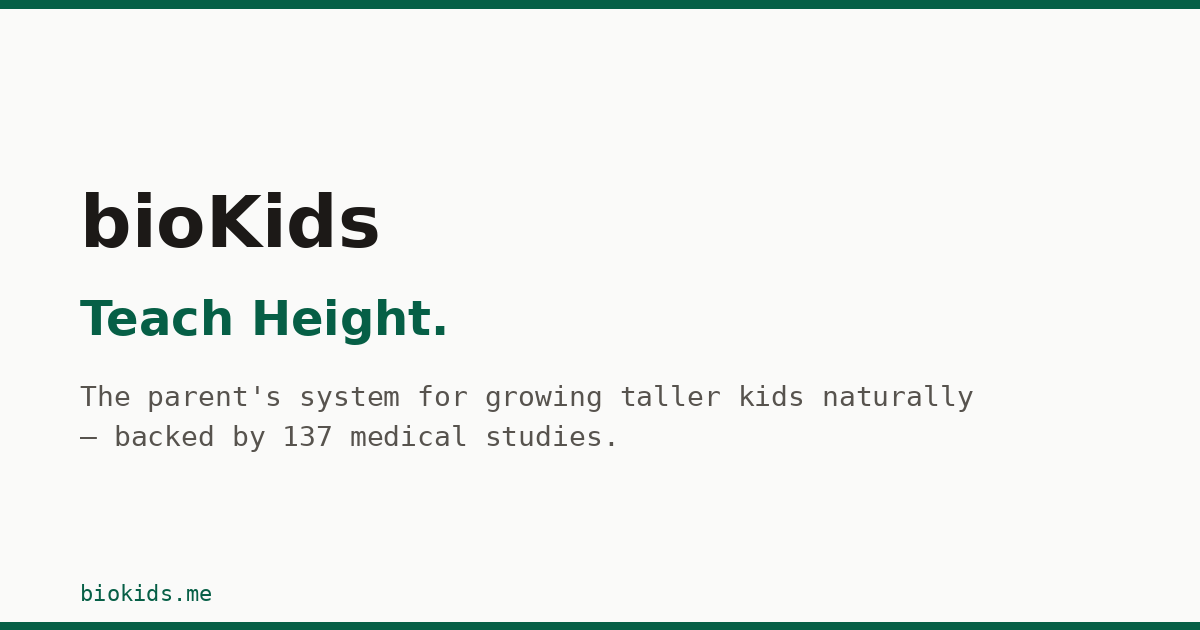
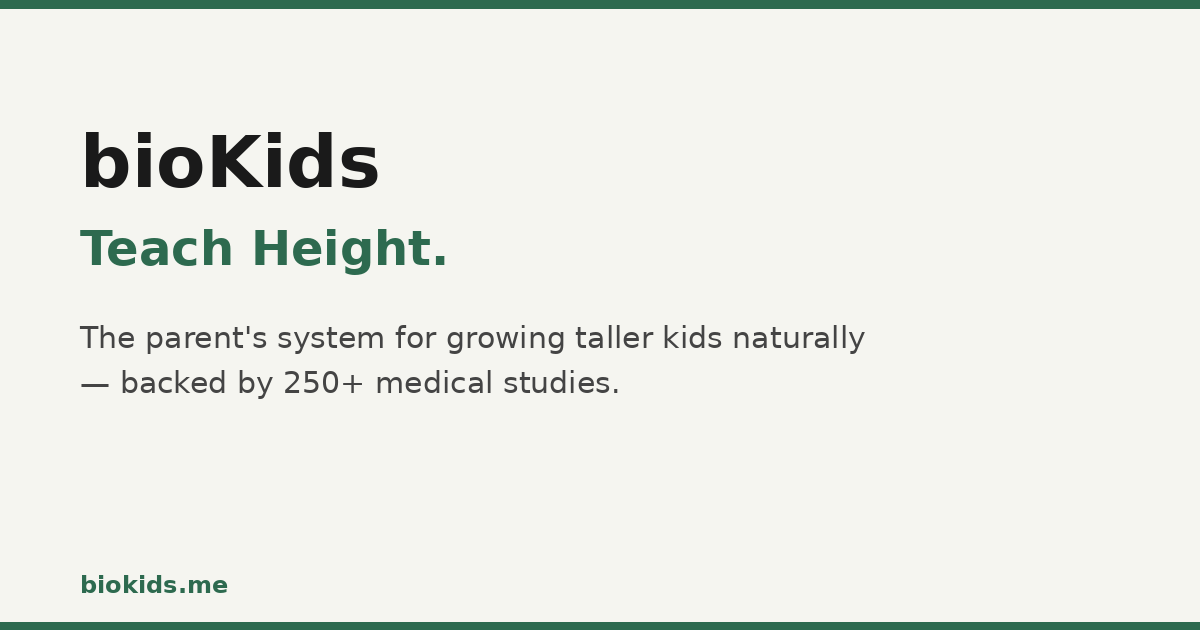
Update study count from 137 to 250+ across metadata, OG image, and pricing

diff --git a/app/layout.tsx b/app/layout.tsx
@@ -6,7 +6,7 @@ import PostHogProvider from "@/components/PostHogProvider";
 
 export const metadata: Metadata = {
   title: "bioKids — Teach Height",
-  description: "The parent's system for growing taller kids naturally — backed by 137 medical studies.",
+  description: "The parent's system for growing taller kids naturally — backed by 250+ medical studies.",
   keywords: ["height", "grow taller", "child height", "height potential", "growth protocol", "nutrition", "sprints", "sleep", "parenting", "pediatric research"],
   manifest: "/manifest.json",
   metadataBase: new URL("https://www.biokids.me"),
@@ -17,7 +17,7 @@ export const metadata: Metadata = {
   },
   openGraph: {
     title: "bioKids — Teach Height",
-    description: "The parent's system for growing taller kids naturally — backed by 137 medical studies.",
+    description: "The parent's system for growing taller kids naturally — backed by 250+ medical studies.",
     url: "https://www.biokids.me",
     type: "website",
     siteName: "bioKids",
@@ -33,7 +33,7 @@ export const metadata: Metadata = {
   twitter: {
     card: "summary_large_image",
     title: "bioKids — Teach Height",
-    description: "The parent's system for growing taller kids naturally — backed by 137 medical studies.",
+    description: "The parent's system for growing taller kids naturally — backed by 250+ medical studies.",
     images: ["/og-image.png"],
   },
   robots: {

diff --git a/components/onboarding/Step8Pricing.tsx b/components/onboarding/Step8Pricing.tsx
@@ -73,7 +73,7 @@ export default function Step8Pricing({ data, onNext, onBack }: Props) {
           </h3>
           <div className="grid grid-cols-2 gap-4">
             {[
-              { value: '137', label: 'peer-reviewed studies indexed' },
+              { value: '250+', label: 'peer-reviewed studies indexed' },
               { value: '2,400+', label: 'hours of research synthesis' },
               { value: '47', label: 'expert reviews' },
               { value: '100%', label: 'backed by academic research' },
